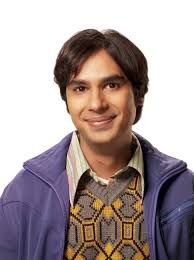
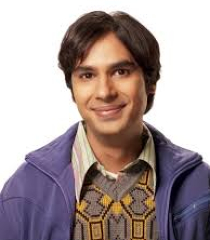
modified pics resolution to match the website and corrected some typos

diff --git a/index.html b/index.html
@@ -37,12 +37,12 @@
     <div class="second-container">
         <div class="s-title"> I Membri</div>
         <div class="cards">
-            <div class="lol"> <img src="./img/pistacchio.webp" alt="un pistacchio" width="210px" height="240px">
+            <div class="lol"> <img src="./img/pistacchio.jpeg" alt="un pistacchio" width="210px" height="240px">
                 <div> <p style="font-size: 18px;"> <b>Pistacchietto</b> </p></div>
                 <div class="descrizione"> <p><b>Dio della top,</b> famoso per la sua pistacchiata</p></div>
             </div>
 
-            <div class="lol"> <img src="./img/dado.jpg" alt="un dado" width="210px" height="240px">
+            <div class="lol"> <img src="./img/dado.jpeg" alt="un dado" width="210px" height="240px">
                 <div> <p style="font-size: 18px;"> <b> Dado </b> </p></div>
                 <div class="descrizione"> <p> letteralmente un dado </p></div>
             </div>
@@ -57,7 +57,7 @@
                 <div class="descrizione"> <p> l'albero più maestoso della landa </p></div>
             </div>
 
-            <div class="lol"> <img src="./img/fusco.jpg" alt="un fusco" width="210px" height="240px">
+            <div class="lol"> <img src="./img/fusco.jpeg" alt="un fusco" width="210px" height="240px">
                 <div> <p style="font-size: 18px;"> <b>Fusco</b> </p></div>
                 <div class="descrizione"> <p> down. </p></div>
             </div>
@@ -76,7 +76,7 @@
     
         <div class="recipiente">
            <div class="quote">
-              "PEDRO PEDRO PEDRO PEDRO PE, PRATICAMENTE IL MEGLIO DI SANTOPÈ"
+              "PEDRO PEDRO PEDRO PEDRO PE, PRATICAMENTE IL MEGLIO DI SANTA FÈ"
            </div>
            <div class="author">
               - Ciro Mertens
@@ -93,7 +93,7 @@
           </div>
 
           <div class="destra">
-              <button>Viecce!</button>
+              <button><a href="https://docs.google.com/forms/d/1376_abiKjCxKHCNajo4uSRfo0AZsoUh2Jj2tsn4GFmk" rel="noopener noreferrer" target="_blank"> Viecce!</a></button>
           </div>
       </div>
     </div>
@@ -133,11 +133,6 @@
             document.getElementById("shitpost").style.display = "block";
         }
     </script>
-
-
-
-
-
 
 </body>
 </html>
